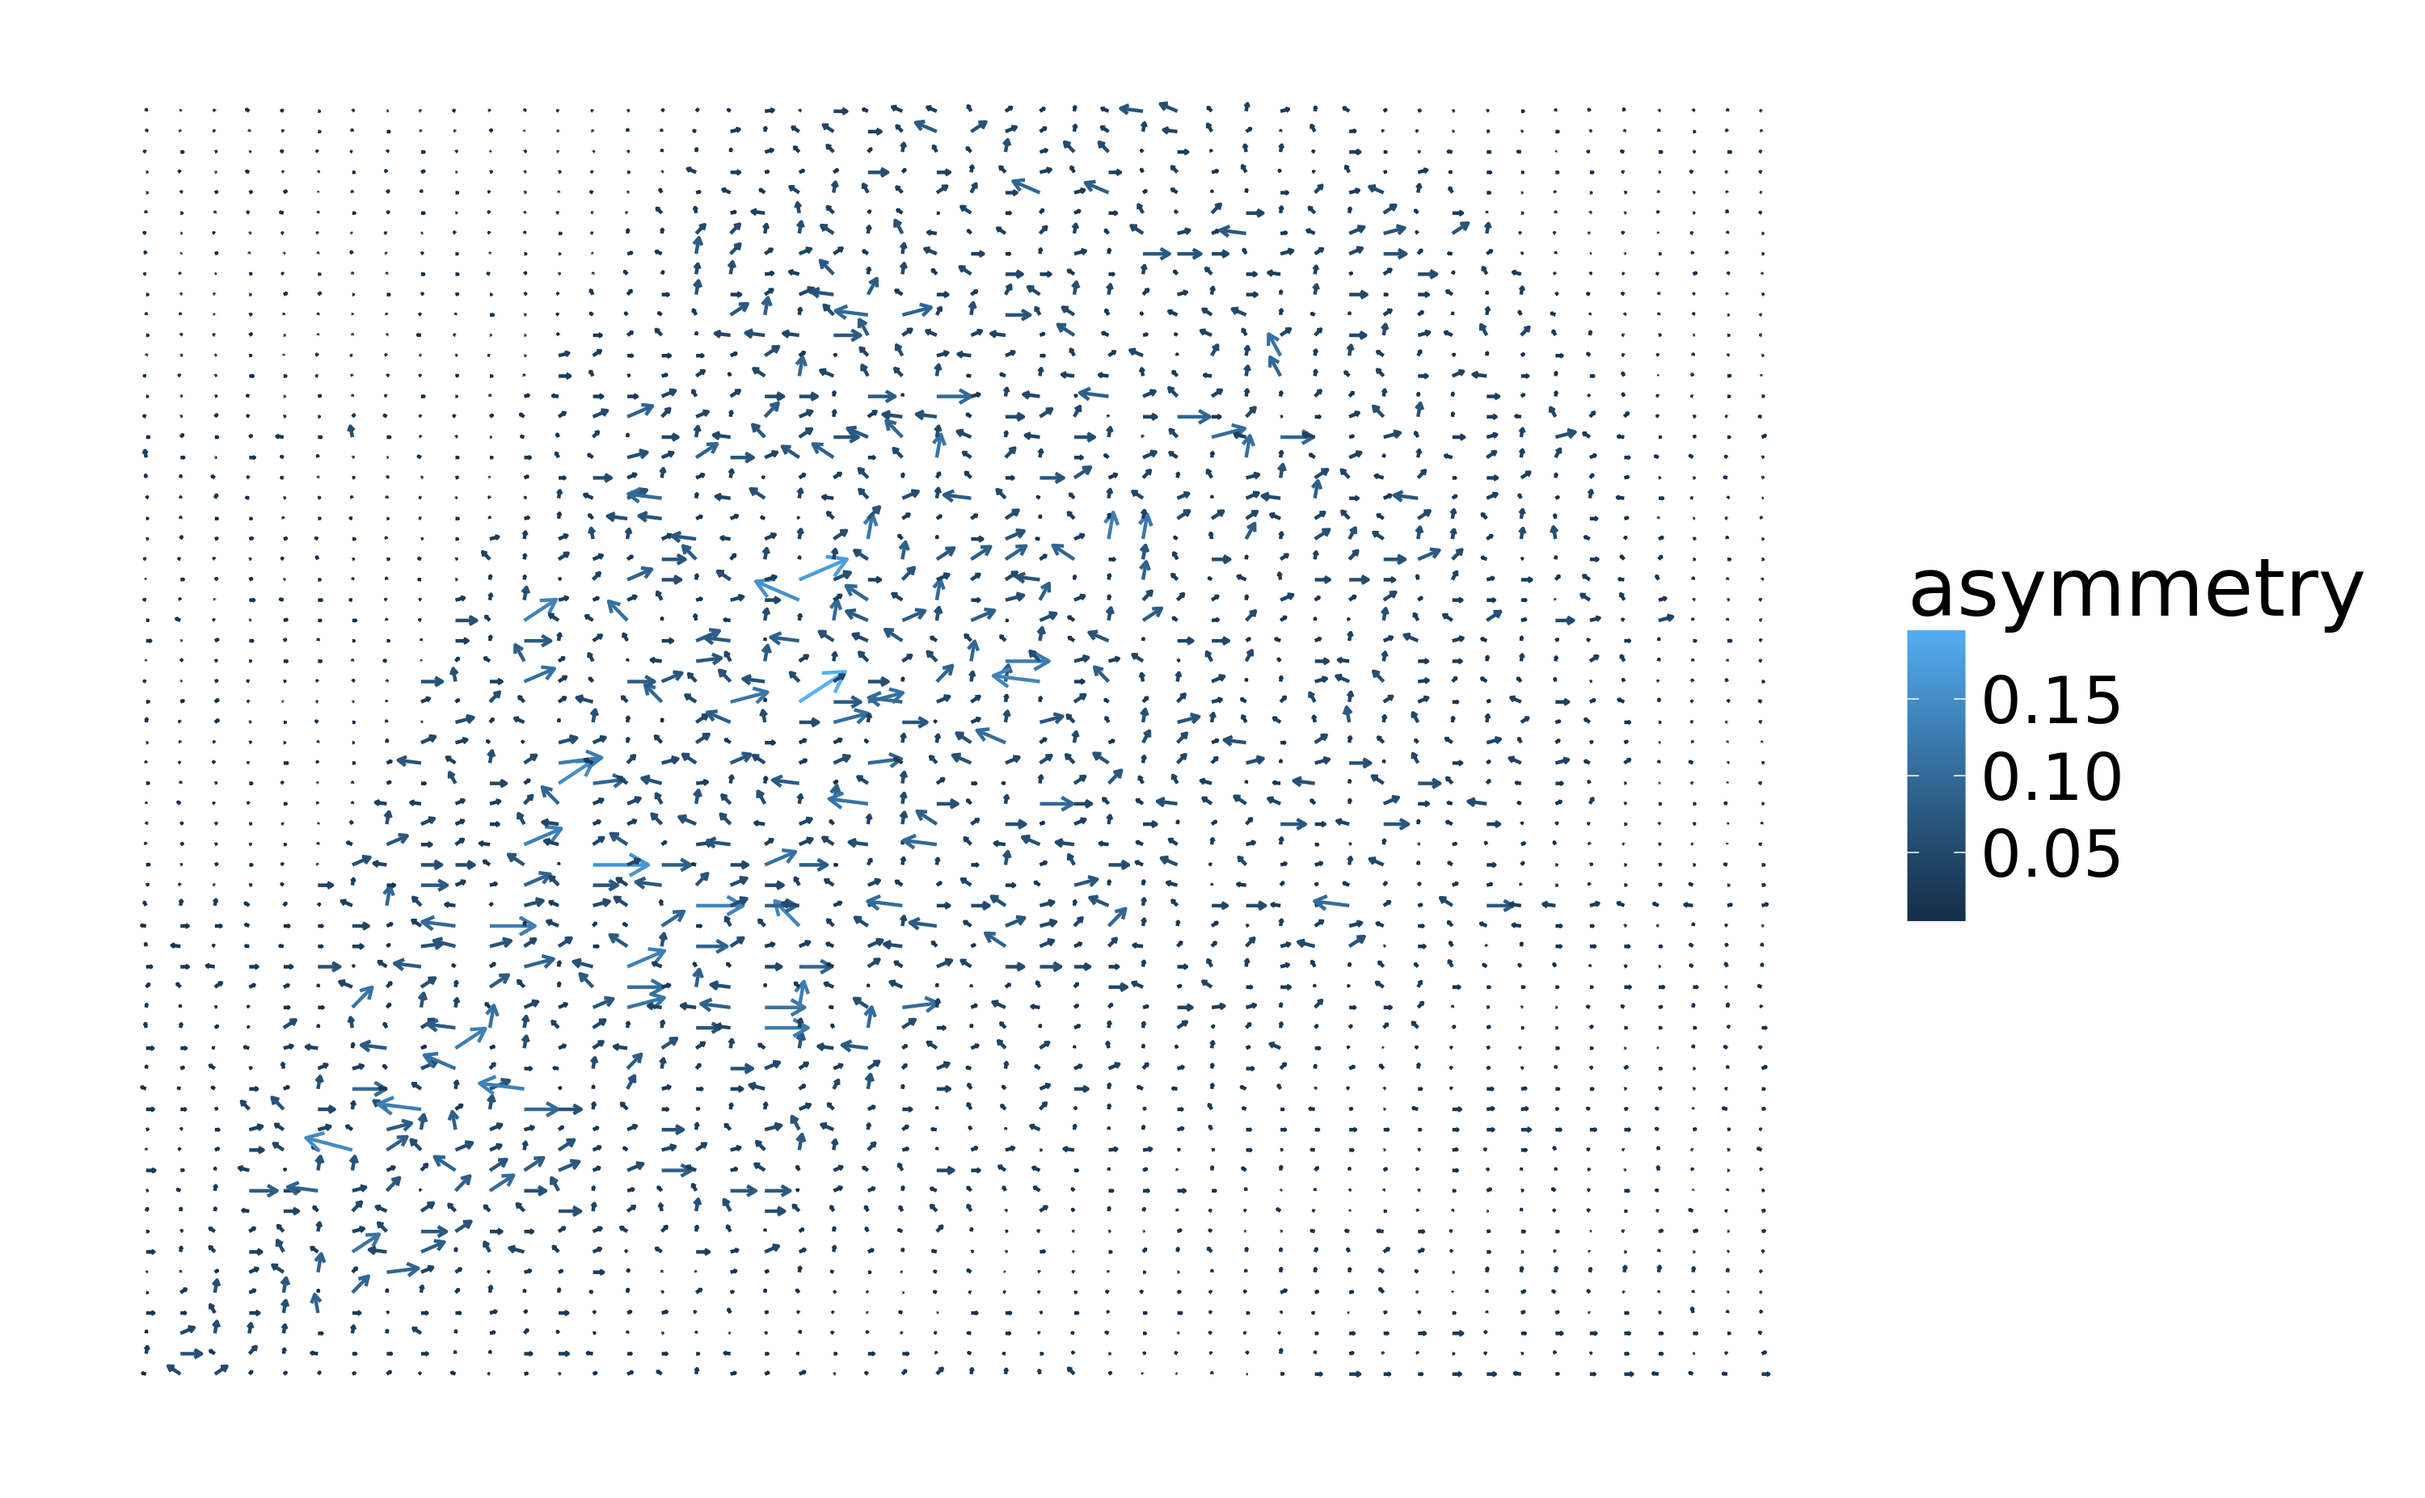
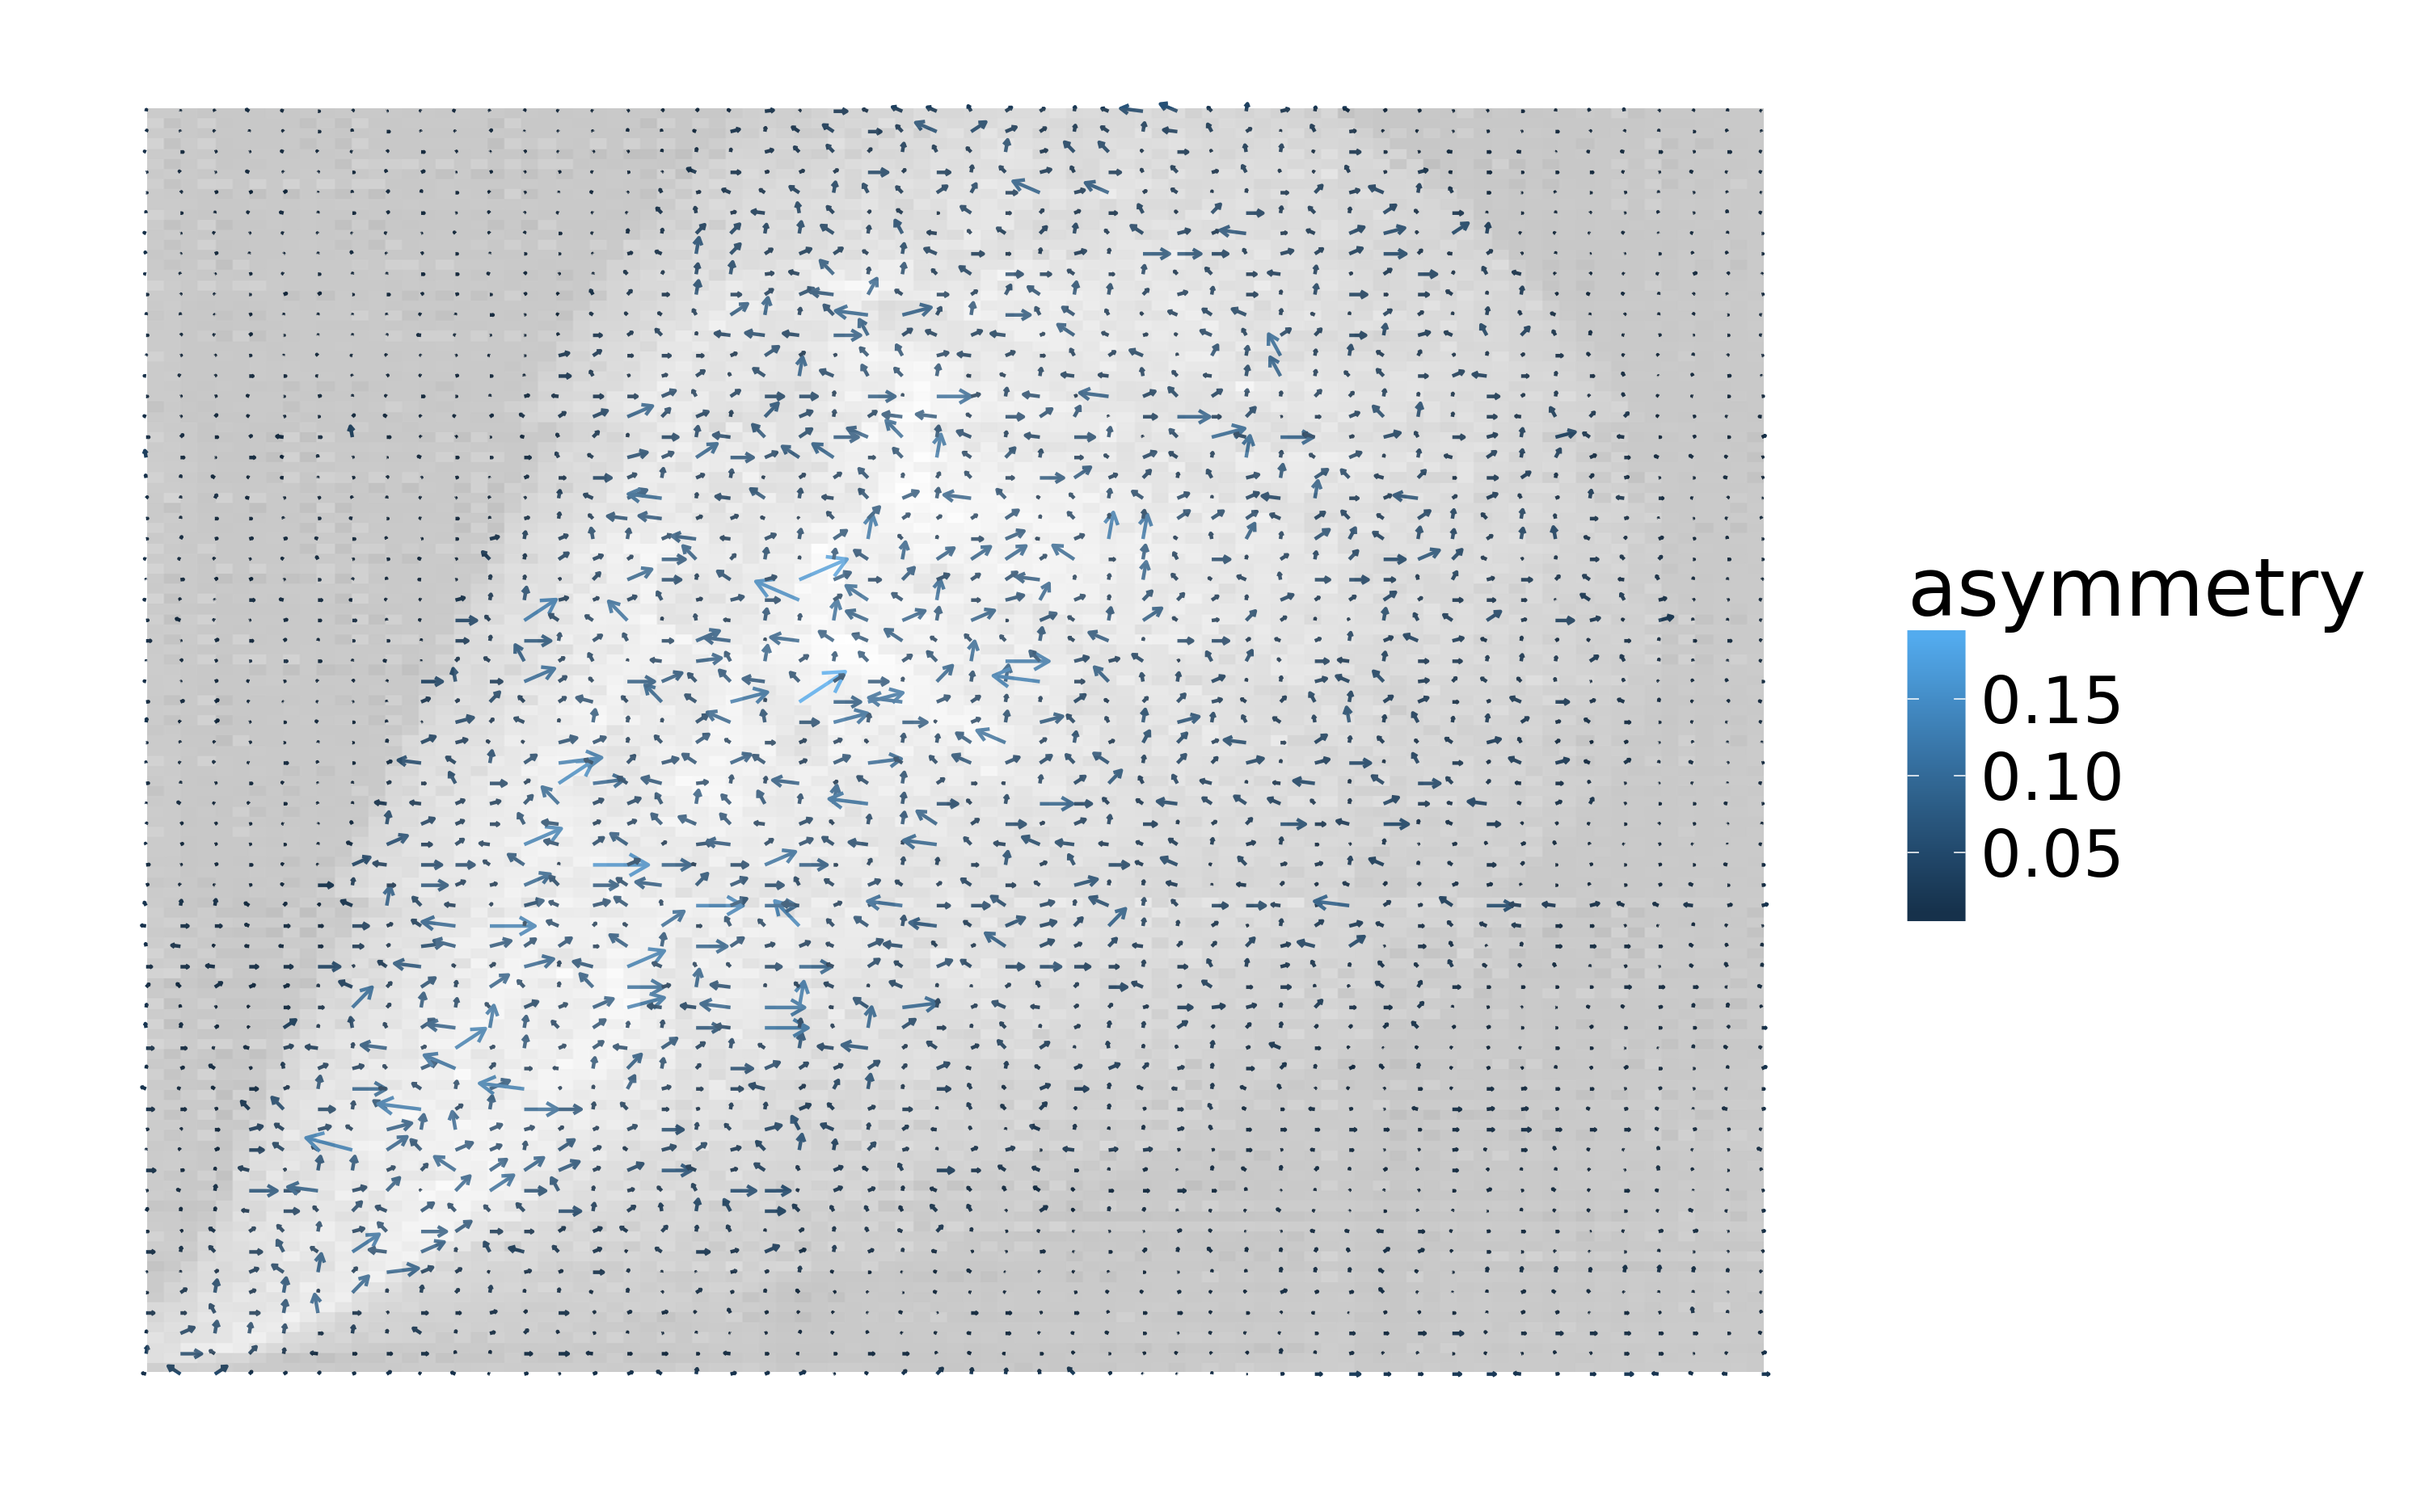
final marco corrections

diff --git a/Chapters/Chapter06.tex b/Chapters/Chapter06.tex
@@ -95,9 +95,9 @@ strong asymmetry, that is a preferred directional orientation of its
 microstructures, on a scale below the pixel size of the detector. Data
 collected by Dr. Kagias M., on this synchrotron setup were utilized in this
 fashion in order to examine the applicability of a spherical symmetry model
-to the lung sample of chapter~\ref{ch:lung-dark-field}. The curve
-fourier transform of $B(\phi)$ in
-equation~\ref{eq:dark-field-omnidirectional} can be used, with the ratio of
+to the lung sample of chapter~\ref{ch:lung-dark-field}. The 
+Fourier transform of $B(\phi)$ in
+equation~\ref{eq:dark-field-omnidirectional} is calculated, with the ratio of
 the absolute value of the first to the zeroth component representing the
 amplitude of the variation between different angles. This is the asymmetry
 score used in section~\ref{sec:results} and shown in
@@ -110,7 +110,8 @@ figure~\ref{fig:lung_omnidir_asym}.
         omnidirectional synchrotron setup by~\cite{PhysRevLett.116.093902}.
     The arrows show the direction of the strongest scattering intensity with
     a length proportional to the asymmetry with respect to the other
-scattering angles.}
+scattering angles. The average scattering intensity is shown in the
+background with a greyscale.}
     \label{fig:lung_omnidir_asym}
 \end{figure}
 
